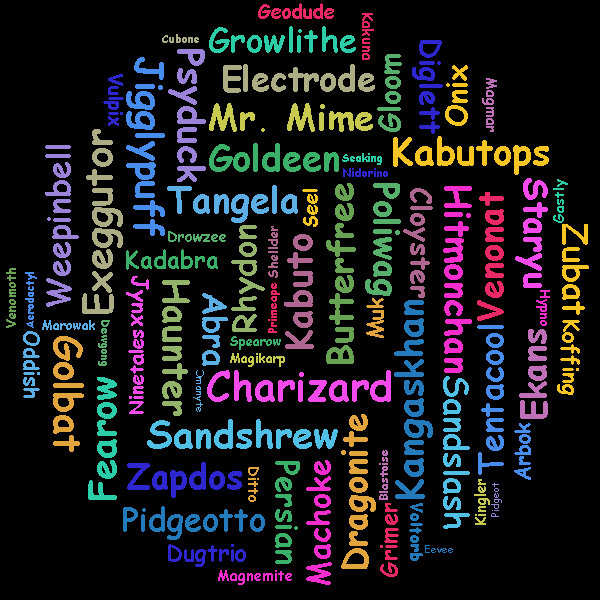
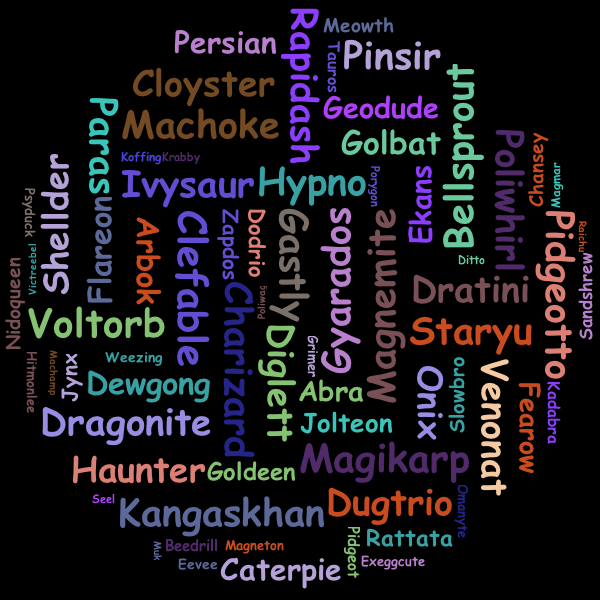
refactoring, improve angle generator

diff --git a/src/test/java/TestWordCloud.java b/src/test/java/TestWordCloud.java
@@ -8,6 +8,7 @@ import wordcloud.bg.CircleBackground;
 import wordcloud.bg.PixelBoundryBackground;
 import wordcloud.bg.RectangleBackground;
 import wordcloud.font.LinearFontScalar;
+import wordcloud.image.AngleGenerator;
 import wordcloud.nlp.FrequencyAnalizer;
 import wordcloud.palette.ColorPalette;
 
@@ -59,16 +60,18 @@ public class TestWordCloud {
     @Test
     public void whaleImgLargeTest() throws IOException {
         final FrequencyAnalizer frequencyAnalizer = new FrequencyAnalizer();
-        frequencyAnalizer.setWordFrequencesToReturn(750);
+        frequencyAnalizer.setWordFrequencesToReturn(600);
         frequencyAnalizer.setMinWordLength(4);
         frequencyAnalizer.setStopWords(loadStopWords());
 
         final List<WordFrequency> wordFrequencies = frequencyAnalizer.load(getInputStream("text/datarank.txt"));
         final WordCloud wordCloud = new WordCloud(990, 618, CollisionType.PIXEL_PERFECT);
         wordCloud.setPadding(2);
+        wordCloud.setBackgroundColor(Color.WHITE);
         wordCloud.setBackground(new PixelBoundryBackground(getInputStream("backgrounds/whale.png")));
-        wordCloud.setColorPalette(new ColorPalette(new Color(0x4055F1), new Color(0x408DF1), new Color(0x40AAF1), new Color(0x40C5F1), new Color(0x40D3F1), new Color(0xFFFFFF)));
+        wordCloud.setColorPalette(new ColorPalette(new Color(0x4055F1), new Color(0x408DF1), new Color(0x40AAF1), new Color(0x40C5F1), new Color(0x40D3F1), new Color(0x000000)));
         wordCloud.setFontScalar(new LinearFontScalar(10, 50));
+//        wordCloud.setThetas(new double[] { 0 });
         wordCloud.build(wordFrequencies);
         wordCloud.writeToFile("output/whale_wordcloud_large3.png");
     }
@@ -100,12 +103,12 @@ public class TestWordCloud {
         final List<WordFrequency> wordFrequencies = frequencyAnalizer.load(getInputStream("text/datarank.txt"));
         final WordCloud wordCloud = new WordCloud(500, 312, CollisionType.PIXEL_PERFECT);
         wordCloud.setPadding(2);
-        wordCloud.setThetas(new double[] {0, -Math.PI / 4, -Math.PI / 2, -Math.PI / 3, Math.PI / 3, Math.PI / 2, Math.PI / 4});
+        wordCloud.setAngleGenerator(new AngleGenerator(-90, 90, 10));
         wordCloud.setBackground(new PixelBoundryBackground(getInputStream("backgrounds/whale_small.png")));
         wordCloud.setColorPalette(new ColorPalette(new Color(0x4055F1), new Color(0x408DF1), new Color(0x40AAF1), new Color(0x40C5F1), new Color(0x40D3F1), new Color(0xFFFFFF)));
-        wordCloud.setFontScalar(new LinearFontScalar(20, 35));
+        wordCloud.setFontScalar(new LinearFontScalar(10, 30));
         wordCloud.build(wordFrequencies);
-        wordCloud.writeToFile("output/whale_wordcloud_small_angles2.png");
+        wordCloud.writeToFile("output/whale_wordcloud_small_angles3.png");
     }
 
     @Test
@@ -118,7 +121,7 @@ public class TestWordCloud {
         final List<WordFrequency> wordFrequencies = frequencyAnalizer.load(getInputStream("text/datarank.txt"));
         final WordCloud wordCloud = new WordCloud(990, 618, CollisionType.PIXEL_PERFECT);
         wordCloud.setPadding(2);
-        wordCloud.setThetas(new double[]{0, -Math.PI / 4, -Math.PI / 2, -Math.PI / 3, Math.PI / 3, Math.PI / 2, Math.PI / 4});
+        wordCloud.setAngleGenerator(new AngleGenerator(-90, 90, 10));
         wordCloud.setBackground(new PixelBoundryBackground(getInputStream("backgrounds/whale.png")));
         wordCloud.setColorPalette(new ColorPalette(new Color(0x4055F1), new Color(0x408DF1), new Color(0x40AAF1), new Color(0x40C5F1), new Color(0x40D3F1), new Color(0xFFFFFF)));
         wordCloud.setFontScalar(new LinearFontScalar(20, 50));

diff --git a/src/main/java/wordcloud/WordCloud.java b/src/main/java/wordcloud/WordCloud.java
@@ -4,12 +4,14 @@ import ch.lambdaj.Lambda;
 import org.apache.log4j.Logger;
 import wordcloud.bg.Background;
 import wordcloud.bg.RectangleBackground;
-import wordcloud.collide.CollisionChecker;
-import wordcloud.collide.RectangleCollisionChecker;
 import wordcloud.collide.RectanglePixelCollidable;
-import wordcloud.collide.RectanglePixelCollisionChecker;
+import wordcloud.collide.checkers.CollisionChecker;
+import wordcloud.collide.checkers.RectangleCollisionChecker;
+import wordcloud.collide.checkers.RectanglePixelCollisionChecker;
+import wordcloud.font.FontOptions;
 import wordcloud.font.FontScalar;
 import wordcloud.font.LinearFontScalar;
+import wordcloud.image.AngleGenerator;
 import wordcloud.image.ImageRotation;
 import wordcloud.padding.Padder;
 import wordcloud.padding.RectanglePadder;
@@ -70,7 +72,13 @@ public class WordCloud {
 
     private FontScalar fontScalar = new LinearFontScalar(10, 40);
 
-    private double[] thetas = new double[] {0, -Math.PI / 2, Math.PI / 2};
+    private FontOptions fontOptions = new FontOptions("Comic Sans MS", Font.BOLD);
+
+    public void setAngleGenerator(AngleGenerator angleGenerator) {
+        this.angleGenerator = angleGenerator;
+    }
+
+    private AngleGenerator angleGenerator = new AngleGenerator();
 
     private final BufferedImage bufferedImage;
 
@@ -102,16 +110,13 @@ public class WordCloud {
     public void build(List<WordFrequency> wordFrequencies) {
         Collections.sort(wordFrequencies, WORD_FREQUENCE_COMPARATOR);
 
-        final List<Word> words = buildwords(wordFrequencies);
-
-        int i = 0;
-        for(final Word word : words) {
-            final double theta = thetas[i % thetas.length];
+        for(final Word word : buildwords(wordFrequencies)) {
+            final double theta = angleGenerator.randomNext();
             if(theta != 0) {
                 word.setBufferedImage(ImageRotation.rotate(word.getBufferedImage(), theta));
             }
             place(word);
-            i++;
+
         }
         drawForgroundToBackground();
     }
@@ -123,6 +128,7 @@ public class WordCloud {
             extension = outputFileName.substring(i + 1);
         }
         try {
+            LOGGER.info("Saving WordCloud to " + outputFileName);
             ImageIO.write(bufferedImage, extension, new File(outputFileName));
         } catch (IOException e) {
             LOGGER.error(e.getMessage(), e);
@@ -226,8 +232,8 @@ public class WordCloud {
 
         final int frequency = wordFrequency.getFrequency();
         final int fontHeight = this.fontScalar.scale(frequency, 0, maxFrequency);
+        final Font font = new Font(fontOptions.getType(), fontOptions.getWeight(), fontHeight);
 
-        final Font font = new Font("Comic Sans MS", Font.BOLD, fontHeight);
         final FontMetrics fontMetrics = graphics.getFontMetrics(font);
         final Word word = new Word(wordFrequency.getWord(), colorPalette.next(), fontMetrics, this.collisionChecker);
         if(padding > 0) {
@@ -260,8 +266,8 @@ public class WordCloud {
         this.fontScalar = fontScalar;
     }
 
-    public void setThetas(double[] thetas) {
-        this.thetas = thetas;
+    public void setFontOptions(FontOptions fontOptions) {
+        this.fontOptions = fontOptions;
     }
 
     public Set<Word> getSkipped() {

diff --git a/src/main/java/wordcloud/image/AngleGenerator.java b/src/main/java/wordcloud/image/AngleGenerator.java
@@ -1,0 +1,52 @@
+package wordcloud.image;
+
+import java.util.Arrays;
+import java.util.Random;
+
+/**
+ * Created by kenny on 7/3/14.
+ */
+public class AngleGenerator {
+
+    private static final Random RANDOM = new Random();
+
+    private final int steps;
+
+    private final double[] thetas;
+
+    private int next = 0;
+
+    public AngleGenerator() {
+        steps = 3;
+        thetas = calculateThetas(-90, 90);
+    }
+
+    public AngleGenerator(double fromDegrees, double toDegrees, int steps) {
+        this.steps = steps;
+        thetas = calculateThetas(fromDegrees, toDegrees);
+    }
+
+    public double next() {
+        return thetas[next++ % steps];
+    }
+
+    public double randomNext() {
+        return thetas[RANDOM.nextInt(steps)];
+    }
+
+    private double[] calculateThetas(final double to, final double from) {
+        final double stepSize = (to - from) / (steps - 1);
+        System.out.println(stepSize);
+        final double[] thetas = new double[steps];
+        for(int i = 0; i < steps; i++) {
+            thetas[i] = degreesToRadians(from + (i * stepSize));
+        }
+        System.out.println(Arrays.toString(thetas));
+        return thetas;
+    }
+
+    private double degreesToRadians(final double degrees) {
+        return Math.PI * degrees / 180.0;
+    }
+
+}

diff --git a/src/main/java/wordcloud/Word.java b/src/main/java/wordcloud/Word.java
@@ -1,7 +1,7 @@
 package wordcloud;
 
 import wordcloud.collide.Collidable;
-import wordcloud.collide.CollisionChecker;
+import wordcloud.collide.checkers.CollisionChecker;
 import wordcloud.collide.Vector2d;
 
 import java.awt.*;
@@ -34,7 +34,10 @@ public class Word implements Collidable {
         fontMetrics.getHeight();
 
         this.bufferedImage = new BufferedImage(width, maxAscent, BufferedImage.TYPE_INT_ARGB);
-        final Graphics graphics = this.bufferedImage.getGraphics();
+        final Graphics2D graphics = (Graphics2D) this.bufferedImage.getGraphics();
+        graphics.setRenderingHint(
+                RenderingHints.KEY_TEXT_ANTIALIASING,
+                RenderingHints.VALUE_TEXT_ANTIALIAS_LCD_HRGB);
         graphics.setColor(color);
         graphics.setFont(fontMetrics.getFont());
         graphics.drawString(word, 0, maxAscent - maxDescent);

diff --git a/src/main/java/wordcloud/font/LogFontScalar.java b/src/main/java/wordcloud/font/LogFontScalar.java
@@ -1,0 +1,22 @@
+package wordcloud.font;
+
+/**
+ * Created by kenny on 6/30/14.
+ */
+public class LogFontScalar implements FontScalar {
+
+    private final int minFont;
+    private final int maxFont;
+
+    public LogFontScalar(int minFont, int maxFont) {
+        this.minFont = minFont;
+        this.maxFont = maxFont;
+    }
+
+    @Override
+    public int scale(int value, int minValue, int maxValue) {
+        double scaledFont = (minValue / (double) maxValue) * (maxFont - minFont) + minFont;
+        return (int) scaledFont;
+    }
+
+}

diff --git a/src/main/java/wordcloud/palette/ColorPalette.java b/src/main/java/wordcloud/palette/ColorPalette.java
@@ -1,11 +1,15 @@
 package wordcloud.palette;
 
 import java.awt.*;
+import java.util.Random;
 
 /**
  * Created by kenny on 6/30/14.
  */
 public class ColorPalette {
+
+    private static final Random RANDOM = new Random();
+
 
     private final Color[] colors;
 
@@ -17,6 +21,10 @@ public class ColorPalette {
 
     public Color next() {
         return colors[next++ % colors.length];
+    }
+
+    public Color randomNext() {
+        return colors[RANDOM.nextInt(colors.length)];
     }
 
 }

diff --git a/src/main/java/wordcloud/font/FontOptions.java b/src/main/java/wordcloud/font/FontOptions.java
@@ -1,0 +1,25 @@
+package wordcloud.font;
+
+/**
+ * Created by kenny on 7/3/14.
+ */
+public class FontOptions {
+
+    private final String type;
+
+    private final int weight;
+
+    public FontOptions(String type, int weight) {
+        this.type = type;
+        this.weight = weight;
+    }
+
+    public String getType() {
+        return type;
+    }
+
+    public int getWeight() {
+        return weight;
+    }
+
+}

diff --git a/src/main/java/wordcloud/collide/checkers/RectanglePixelCollisionChecker.java b/src/main/java/wordcloud/collide/checkers/RectanglePixelCollisionChecker.java
@@ -1,4 +1,7 @@
-package wordcloud.collide;
+package wordcloud.collide.checkers;
+
+import wordcloud.collide.Collidable;
+import wordcloud.collide.Vector2d;
 
 import java.awt.image.BufferedImage;
 

diff --git a/src/main/java/wordcloud/collide/checkers/RectangleCollisionChecker.java b/src/main/java/wordcloud/collide/checkers/RectangleCollisionChecker.java
@@ -1,4 +1,7 @@
-package wordcloud.collide;
+package wordcloud.collide.checkers;
+
+import wordcloud.collide.Collidable;
+import wordcloud.collide.Vector2d;
 
 /**
  * Created by kenny on 6/29/14.

diff --git a/src/main/java/wordcloud/collide/RectanglePixelCollidable.java b/src/main/java/wordcloud/collide/RectanglePixelCollidable.java
@@ -1,5 +1,7 @@
 package wordcloud.collide;
 
+import wordcloud.collide.checkers.RectanglePixelCollisionChecker;
+
 import java.awt.image.BufferedImage;
 
 /**

diff --git a/src/main/java/wordcloud/collide/checkers/CollisionChecker.java b/src/main/java/wordcloud/collide/checkers/CollisionChecker.java
@@ -1,4 +1,6 @@
-package wordcloud.collide;
+package wordcloud.collide.checkers;
+
+import wordcloud.collide.Collidable;
 
 /**
  * Created by kenny on 7/1/14.
